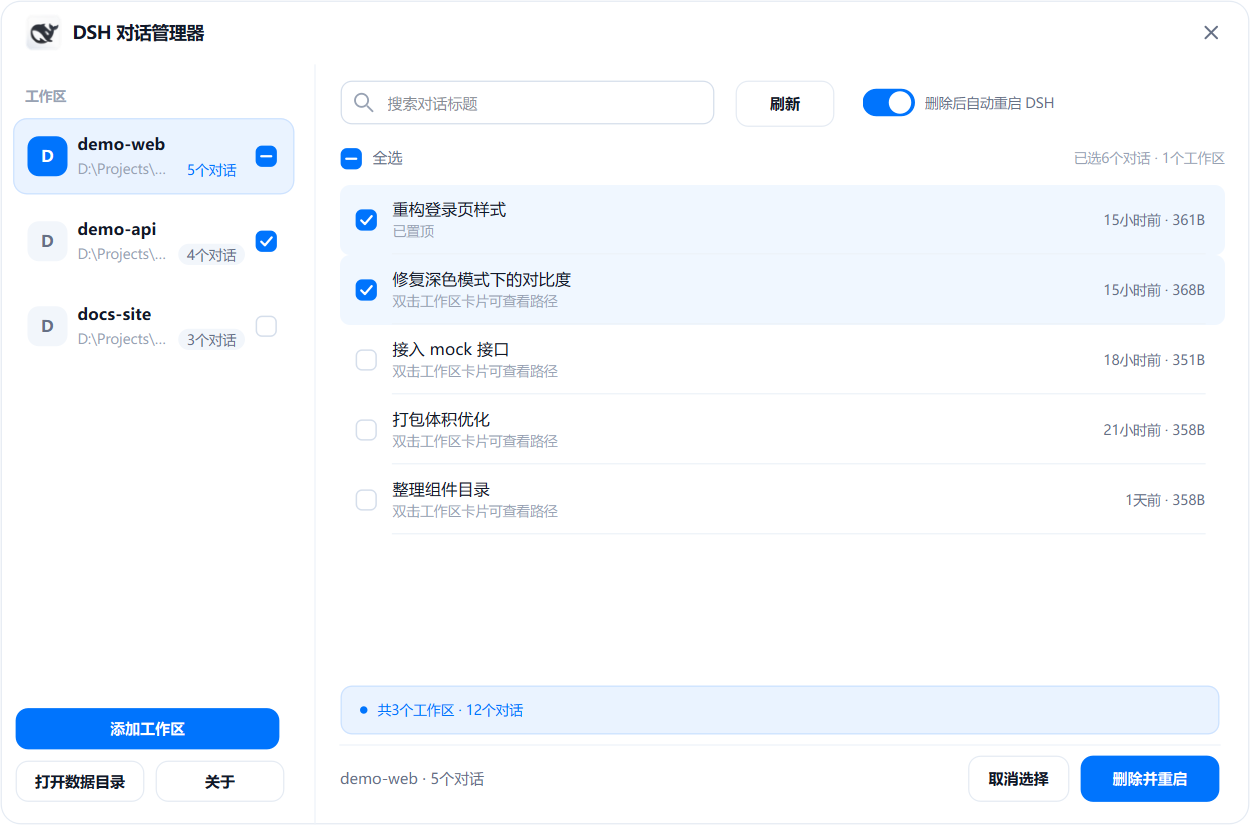
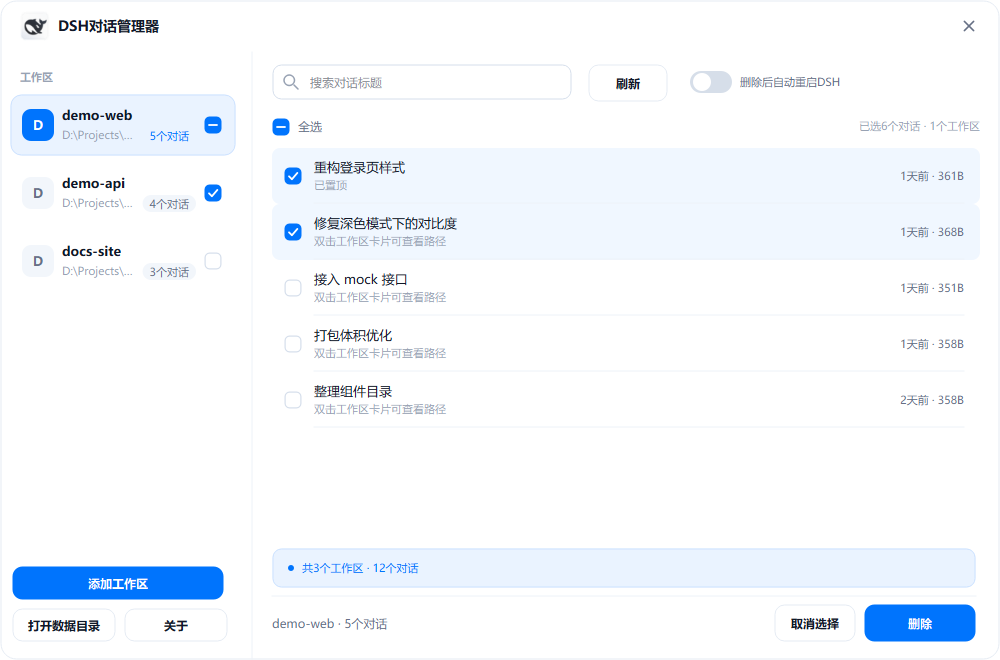
feat: v2.1.1 - polish interface typography

diff --git a/source/src/dshmanager/ui_main.py b/source/src/dshmanager/ui_main.py
@@ -151,7 +151,7 @@ class WorkspaceCard(QWidget):
             "QMenu::separator{height:1px;background:#EDF2F8;margin:4px 10px;}"
         )
         if self.workspace.unregistered:
-            act_register = QAction("添加到 DSH 配置", menu)
+            act_register = QAction("添加到DSH配置", menu)
             act_register.triggered.connect(lambda: self.action.emit(self.workspace.wid, "register"))
             menu.addAction(act_register)
             menu.addSeparator()
@@ -356,10 +356,10 @@ class DeleteWorker(QThread):
                 exe = restart.find_exe()
                 pids = restart.list_pids() if exe else []
                 if not exe:
-                    self.step.emit(3, StepState.FAILED, "未找到 DSH")
-                    result.errors.append("没有找到 DeepSeek Harness.exe")
+                    self.step.emit(3, StepState.FAILED, "未找到DSH")
+                    result.errors.append("没有找到DeepSeek Harness.exe")
                 elif not pids:
-                    self.step.emit(3, StepState.DONE, "DSH 未运行")
+                    self.step.emit(3, StepState.DONE, "DSH未运行")
                 else:
                     restart.spawn_waiter(exe, pids)
                     ok, code, detail = restart.kill_dsh()
@@ -367,10 +367,10 @@ class DeleteWorker(QThread):
                         self.step.emit(3, StepState.DONE, "已重启")
                     elif code in (1, 5) or "拒绝访问" in detail or "Access is denied" in detail:
                         self.step.emit(3, StepState.FAILED, "需要管理员权限")
-                        result.errors.append(f"结束 DSH 被拒绝（exit {code}）：{detail}")
+                        result.errors.append(f"结束DSH被拒绝（exit {code}）：{detail}")
                     else:
                         self.step.emit(3, StepState.FAILED, f"exit {code}")
-                        result.errors.append(f"taskkill 失败（exit {code}）：{detail}")
+                        result.errors.append(f"taskkill失败（exit {code}）：{detail}")
             else:
                 self.step.emit(3, StepState.DONE, "已跳过")
 
@@ -382,7 +382,7 @@ class DeleteWorker(QThread):
 # ================================================================ 主窗口
 class MainWindow(ChromeWindow):
     def __init__(self) -> None:
-        super().__init__(WIN_W, WIN_H, "DSH 对话管理器")
+        super().__init__(WIN_W, WIN_H, "DSH对话管理器")
         icon_path = theme.resource_path("dshmanager.ico")
         if os.path.exists(icon_path):
             self.setWindowIcon(QIcon(icon_path))
@@ -407,7 +407,7 @@ class MainWindow(ChromeWindow):
     def _build_ui(self) -> None:
         self._logo = LogoBadge(self, 30)
         self._logo.move(20, 11)
-        self._title = QLabel("DSH 对话管理器", self)
+        self._title = QLabel("DSH对话管理器", self)
         self._title.setFont(theme.font(10.6, bold=True))
         self._title.setStyleSheet("color:#101828;background:transparent;")
         self._title.setGeometry(58, 11, 300, 30)
@@ -455,7 +455,7 @@ class MainWindow(ChromeWindow):
         self._restart_toggle.move(690, 70)
         self._restart_toggle.toggled.connect(self._on_restart_toggled)
 
-        self._restart_label = QLabel("删除后自动重启 DSH", self)
+        self._restart_label = QLabel("删除后自动重启DSH", self)
         self._restart_label.setFont(theme.font(8.6))
         self._restart_label.setStyleSheet("color:#667085;background:transparent;")
         self._restart_label.setGeometry(740, 70, 210, 24)
@@ -499,7 +499,7 @@ class MainWindow(ChromeWindow):
         self._bar = AccentProgress(self._progress)
         self._bar.setGeometry(20, 18, 684, 4)
         self._steps = []
-        titles = ["删除对话文件", "清理 workspace.json 引用", "备份并写盘", "重启 DeepSeek Harness"]
+        titles = ["删除对话文件", "清理workspace.json引用", "备份并写盘", "重启DeepSeek Harness"]
         for index, text in enumerate(titles):
             row = StatusRow(text, "", self._progress)
             row.setGeometry(12, 36 + index * 52, 700, 52)
@@ -775,7 +775,7 @@ class MainWindow(ChromeWindow):
         self._register_workspace(path)
 
     def _register_workspace(self, path: str) -> None:
-        """把文件夹登记进 workspace.json，并挂上目录匹配的对话。"""
+        """把文件夹登记进workspace.json，并挂上目录匹配的对话。"""
         if self._busy or not path:
             return
         try:
@@ -826,7 +826,7 @@ class MainWindow(ChromeWindow):
         message = "会话日志和缓存会被永久删除，无法恢复。"
         if workspace_ids:
             message += "工作区会从DSH列表中移除登记，文件夹本身保留。"
-        message += "workspace.json 会在写入前自动备份。"
+        message += "workspace.json会在写入前自动备份。"
         dialog = ConfirmDialog(
             self,
             title,
@@ -851,7 +851,7 @@ class MainWindow(ChromeWindow):
             dialog = ConfirmDialog(
                 self,
                 f"移除工作区「{workspace.title}」？",
-                "只从 DSH 的列表里移除登记，工作区文件夹和对话日志都会保留。",
+                "只从DSH的列表里移除登记，工作区文件夹和对话日志都会保留。",
                 [],
                 confirm_label="移除",
             )

diff --git a/source/src/dshmanager/store.py b/source/src/dshmanager/store.py
@@ -1,4 +1,4 @@
-"""workspace.json 的读写、备份、原子写与删除语义。"""
+"""workspace.json的读写、备份、原子写与删除语义。"""
 
 from __future__ import annotations
 
@@ -62,7 +62,7 @@ def delete_session_files(session) -> list[str]:
 
 
 def clean_references(store: dict, session_ids: set[str], workspace_ids: set[str]) -> bool:
-    """从 workspace.json 里摘掉会话/工作区引用，返回是否有改动。"""
+    """从workspace.json里摘掉会话/工作区引用，返回是否有改动。"""
     changed = False
     global_cfg = store.setdefault("global", {})
     tables = store.setdefault("tables", {})
@@ -95,7 +95,7 @@ def clean_references(store: dict, session_ids: set[str], workspace_ids: set[str]
                 changed = True
         if changed:
             tables["workspaces"] = workspaces
-            # defaultWorkspaceId 保持原样：与 DSH 语义一致，删了也不清空
+            # defaultWorkspaceId保持原样：与DSH语义一致，删了也不清空
     return changed
 
 
@@ -103,7 +103,7 @@ def workspace_path(dsh_home: str) -> str:
     return os.path.join(dsh_home, "storages", "workspace.json")
 
 def add_workspace(store: dict, path: str, title: str, session_ids: list[str]) -> str:
-    """把一个新工作区登记进 workspace.json，返回新的 workspace id。"""
+    """把一个新工作区登记进workspace.json，返回新的workspace id。"""
     import uuid
     from datetime import datetime, timezone
 

diff --git a/source/src/dshmanager/dialogs.py b/source/src/dshmanager/dialogs.py
@@ -108,7 +108,7 @@ class DetailsDialog(ChromeDialog):
 class AboutDialog(ChromeDialog):
     def __init__(self, parent, version: str, dsh_home: str):
         super().__init__(560, 372, "关于", parent)
-        title = _Label(self, "DSH 对话管理器", 13.0, True, theme.TEXT)
+        title = _Label(self, "DSH对话管理器", 13.0, True, theme.TEXT)
         title.setGeometry(28, 44, 460, 30)
 
         sub = _Label(self, f"DSHManager v{version}", 9.0, False, theme.MUTED)
@@ -116,10 +116,10 @@ class AboutDialog(ChromeDialog):
 
         body = _Label(
             self,
-            "整理 DeepSeek Harness 保存在本机的对话：按工作区浏览，支持搜索与批量删除。\n"
-            "删除完成后可以自动重启 DSH。\n\n"
+            "整理DeepSeek Harness保存在本机的对话：按工作区浏览，支持搜索与批量删除。\n"
+            "删除完成后可以自动重启DSH。\n\n"
             f"数据目录：{dsh_home}\n"
-            "写入前会自动备份 workspace.json；被删除的对话无法恢复。",
+            "写入前会自动备份workspace.json；被删除的对话无法恢复。",
             8.8, False, theme.MUTED,
         )
         body.setGeometry(28, 106, 504, 150)

diff --git a/source/src/dshmanager/model.py b/source/src/dshmanager/model.py
@@ -107,11 +107,11 @@ def _latest_log(session_dir: str) -> tuple[str, int]:
 
 
 def scan(dsh_home: str, store: dict) -> list[Workspace]:
-    """把 workspace.json + sessions 目录合成工作区列表。
+    """把workspace.json + sessions目录合成工作区列表。
 
-    已登记的工作区按 workspace.json 顺序输出；磁盘上存在但没有登记、
+    已登记的工作区按workspace.json顺序输出；磁盘上存在但没有登记、
     或者登记里没有引用到的会话，会按会话记录的工作目录自动聚合成
-    「未登记工作区」，交给用户在界面上决定是否登记进 DSH。
+    「未登记工作区」，交给用户在界面上决定是否登记进DSH。
     """
     sessions_root = os.path.join(dsh_home, "sessions")
     cache_root = os.path.join(dsh_home, "storages", "session_projcache", "sessions")

diff --git a/source/src/dshmanager/restart.py b/source/src/dshmanager/restart.py
@@ -1,4 +1,4 @@
-"""结束并重新拉起 DSH：PID 探测、等待退出、taskkill 诊断、UAC 重试。"""
+"""结束并重新拉起DSH：PID探测、等待退出、taskkill诊断、UAC重试。"""
 
 from __future__ import annotations
 
@@ -101,7 +101,7 @@ def _command_prefix() -> list[str]:
 
 
 def spawn_waiter(exe: str, pids: list[int]) -> None:
-    """起一个脱离本进程的 waiter：等这些 PID 全部退出后再拉起 exe。"""
+    """起一个脱离本进程的waiter：等这些PID全部退出后再拉起exe。"""
     args = _command_prefix() + ["--relaunch-waiter", exe] + [str(p) for p in pids]
     subprocess.Popen(
         args,

diff --git a/source/src/dshmanager/__main__.py b/source/src/dshmanager/__main__.py
@@ -1,4 +1,4 @@
-"""入口：--relaunch-waiter 隐藏模式 / --selftest 无界面自检 / 正常启动图形界面。"""
+"""入口：--relaunch-waiter隐藏模式 / --selftest无界面自检 / 正常启动图形界面。"""
 
 from __future__ import annotations
 
@@ -48,8 +48,8 @@ def main() -> int:
     from .ui_main import MainWindow
 
     app = QApplication(sys.argv)
-    app.setApplicationName("DSH 对话管理器")
-    app.setApplicationDisplayName("DSH 对话管理器")
+    app.setApplicationName("DSH对话管理器")
+    app.setApplicationDisplayName("DSH对话管理器")
     app.setFont(theme.font(9.3))
 
     window = MainWindow()

diff --git a/source/src/dshmanager/zstdlog.py b/source/src/dshmanager/zstdlog.py
@@ -1,4 +1,4 @@
-"""多帧 zstd 会话日志解码：只取会话头与标题，避免整份日志解压。"""
+"""多帧zstd会话日志解码：只取会话头与标题，避免整份日志解压。"""
 
 from __future__ import annotations
 
@@ -23,7 +23,7 @@ class SessionFacts:
 
 
 def _decode(buf: bytes) -> str:
-    """把一段（可能由多个独立帧首尾相接的）zstd 数据解成长文本。"""
+    """把一段（可能由多个独立帧首尾相接的）zstd数据解成长文本。"""
     if not buf:
         return ""
     try:

diff --git a/source/src/dshmanager/theme.py b/source/src/dshmanager/theme.py
@@ -1,4 +1,4 @@
-"""设计令牌：Soft Minimal Desktop Utility（对齐 MagDsh 的 theme.py）。"""
+"""设计令牌：Soft Minimal Desktop Utility（对齐MagDsh的theme.py）。"""
 
 from __future__ import annotations
 

diff --git a/source/src/dshmanager/widgets.py b/source/src/dshmanager/widgets.py
@@ -1,4 +1,4 @@
-"""自绘控件库：Soft Minimal Desktop Utility 风格（对齐 MagDsh）。"""
+"""自绘控件库：Soft Minimal Desktop Utility风格（对齐MagDsh）。"""
 
 from __future__ import annotations
 

diff --git a/source/src/dshmanager/__init__.py b/source/src/dshmanager/__init__.py
@@ -1,3 +1,3 @@
-"""DSH 对话管理器。"""
+"""DSH对话管理器。"""
 
-__version__ = "2.0.0"
+__version__ = "2.1.1"

diff --git a/CHANGELOG.md b/CHANGELOG.md
@@ -1,5 +1,10 @@
 # Changelog
 
+## v2.1.1 — 2026-11-16
+
+### 变更
+- 优化界面显示效果。
+
 ## v2.1.0 — 2026-11-16
 
 ### 新增
